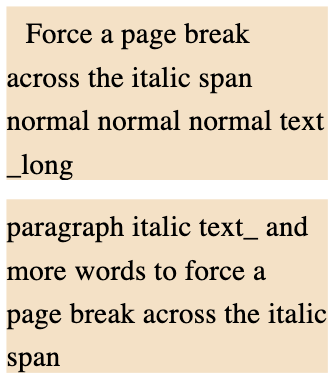
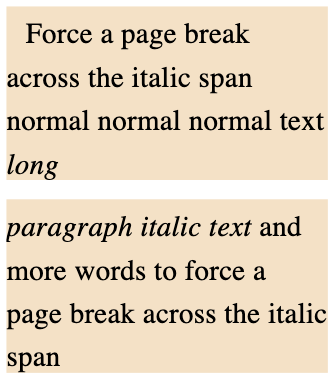
Implement markdown rebalancing for emphasis spans split across pages in Reader component. Update related tests and introduce utility for detecting emphasis spans.

Changed region(s): [[0.0, 0.55, 0.9309, 0.6368], [0.0, 0.4053, 0.2102, 0.4921]]

diff --git a/webApp/src/features/Reader/utils/balanceMarkdownAcrossSplit.ts b/webApp/src/features/Reader/utils/balanceMarkdownAcrossSplit.ts
@@ -1,0 +1,116 @@
+/**
+ * When `splitIntoPages` slices a single source paragraph into multiple page
+ * chunks, a markdown emphasis span (e.g. `_word word_` or `**word**`) can be
+ * cut in half — the opener ends up on page N and its matching closer on page
+ * N+1. Each chunk is then handed to `markdown-to-jsx` in isolation, where
+ * the unmatched delimiter is rendered as a literal `_` / `*` instead of
+ * applying italic/bold formatting.
+ *
+ * This module detects emphasis spans that straddle a chunk boundary and
+ * returns the wrapper delimiters that must be re-injected at render time to
+ * keep markdown balanced for each chunk WITHOUT modifying the chunk's
+ * `words` array (which is the source of truth for selection char offsets).
+ *
+ * Care: a bare `_` between alphanumerics (`foo_bar`) is intraword and is
+ * NOT an emphasis delimiter in CommonMark; we mirror the same word-boundary
+ * gating that `ReaderParagraph` already uses for the
+ * `hasMarkdownEmphasis` flag so literal underscores are never miscounted.
+ */
+
+export interface EmphasisSpan {
+  marker: '_' | '__' | '*' | '**';
+  openStart: number;
+  closeEndExclusive: number;
+}
+
+export interface MarkdownChunkWrappers {
+  markdownPrefix: string;
+  markdownSuffix: string;
+}
+
+// Matches a complete, well-formed emphasis span with the same word-boundary
+// gating as the `hasMarkdownEmphasis` regex in `ReaderParagraph.tsx`:
+//   - the character before the opener must be string-start or a non-word /
+//     non-decorator character (so `foo_bar_baz` is NOT an emphasis pair)
+//   - the character after the closer must be string-end or a non-word /
+//     non-decorator character
+const EMPHASIS_SPAN_REGEX =
+  /(^|[^\p{L}\p{N}_*])((\*\*[^*\n](?:[^*\n]*[^*\n])?\*\*)|(\*[^*\n]+\*)|(__[^_\n](?:[^_\n]*[^_\n])?__)|(_[^_\n]+_))(?=$|[^\p{L}\p{N}_*])/gu;
+
+const detectMarker = (matchedSpan: string): EmphasisSpan['marker'] => {
+  if (matchedSpan.startsWith('**')) return '**';
+  if (matchedSpan.startsWith('__')) return '__';
+  if (matchedSpan.startsWith('*')) return '*';
+  return '_';
+};
+
+export const findEmphasisSpans = (text: string): EmphasisSpan[] => {
+  const spans: EmphasisSpan[] = [];
+  EMPHASIS_SPAN_REGEX.lastIndex = 0;
+  let match: RegExpExecArray | null;
+
+  while ((match = EMPHASIS_SPAN_REGEX.exec(text)) !== null) {
+    const leadingContextLength = match[1].length;
+    const spanText = match[2];
+    const openStart = match.index + leadingContextLength;
+    const closeEndExclusive = openStart + spanText.length;
+    spans.push({
+      marker: detectMarker(spanText),
+      openStart,
+      closeEndExclusive,
+    });
+    // Resume scanning AFTER the matched span (the regex consumed the trailing
+    // context via look-ahead so `lastIndex` is already at `closeEndExclusive`,
+    // but we set it explicitly to make the contract clear).
+    EMPHASIS_SPAN_REGEX.lastIndex = closeEndExclusive;
+  }
+
+  return spans;
+};
+
+/**
+ * Compute the delimiters that must be PREPENDED / APPENDED to the rendered
+ * markdown for a chunk that covers `[chunkStart, chunkEndExclusive)` of the
+ * original paragraph text.
+ *
+ * - If an emphasis span opens BEFORE the chunk and closes INSIDE it, prepend
+ *   the opener so `markdown-to-jsx` sees a complete pair.
+ * - If an emphasis span opens INSIDE the chunk and closes AFTER it, append
+ *   the closer so `markdown-to-jsx` sees a complete pair.
+ *
+ * The returned wrappers are concatenated in span order so nested / multiple
+ * crossings are handled deterministically.
+ */
+export const getMarkdownWrappersForChunk = ({
+  originalParagraphText,
+  chunkStart,
+  chunkEndExclusive,
+}: {
+  originalParagraphText: string;
+  chunkStart: number;
+  chunkEndExclusive: number;
+}): MarkdownChunkWrappers => {
+  if (chunkStart === 0 && chunkEndExclusive >= originalParagraphText.length) {
+    return { markdownPrefix: '', markdownSuffix: '' };
+  }
+
+  const spans = findEmphasisSpans(originalParagraphText);
+  let markdownPrefix = '';
+  let markdownSuffix = '';
+
+  for (const span of spans) {
+    const opensBeforeChunk = span.openStart < chunkStart;
+    const opensInsideChunk = span.openStart >= chunkStart && span.openStart < chunkEndExclusive;
+    const closesAfterChunk = span.closeEndExclusive > chunkEndExclusive;
+    const closesInsideChunk =
+      span.closeEndExclusive > chunkStart && span.closeEndExclusive <= chunkEndExclusive;
+
+    if (opensBeforeChunk && closesInsideChunk) {
+      markdownPrefix += span.marker;
+    } else if (opensInsideChunk && closesAfterChunk) {
+      markdownSuffix += span.marker;
+    }
+  }
+
+  return { markdownPrefix, markdownSuffix };
+};

diff --git a/webApp/src/features/Reader/utils/splitParagraphsIntoPages.tsx b/webApp/src/features/Reader/utils/splitParagraphsIntoPages.tsx
@@ -1,12 +1,21 @@
 import { getHash } from '@/libs/hash';
 import { splitWords } from '../../Sentence/TextConstructor/textConstructor.utils';
 import { BookParagraph, ReaderSettings } from '../model/types';
+import { getMarkdownWrappersForChunk } from './balanceMarkdownAcrossSplit';
 import { isFitInPage, MeasuredParagraph } from './isFitInPage';
 
 export interface PagedParagraph {
   words: BookParagraph;
   sourceParagraphIndex: number;
   sourceStartCharOffset: number;
+  /**
+   * Markdown delimiter(s) injected at render time to re-balance an emphasis
+   * span that was split across a page boundary. Empty when no rebalancing is
+   * needed. NEVER include these characters in `words` — they exist only for
+   * markdown-to-jsx and must not shift selection char offsets.
+   */
+  markdownPrefix?: string;
+  markdownSuffix?: string;
 }
 
 export interface SplitIntoPagesData {
@@ -106,7 +115,39 @@ export const splitIntoPages = ({
 
   const markdownImagePattern = /!\[.*?\]\(.*?\)/;
 
+  const pushChunkWithRebalancedMarkdown = ({
+    fittedWords,
+    sourceParagraphIndex,
+    chunkStartCharOffset,
+    originalParagraphText,
+  }: {
+    fittedWords: string[];
+    sourceParagraphIndex: number;
+    chunkStartCharOffset: number;
+    originalParagraphText: string;
+  }) => {
+    const fittedParagraphText = fittedWords.join(' ');
+    const { markdownPrefix, markdownSuffix } = getMarkdownWrappersForChunk({
+      originalParagraphText,
+      chunkStart: chunkStartCharOffset,
+      chunkEndExclusive: chunkStartCharOffset + fittedParagraphText.length,
+    });
+
+    currentPage.push({
+      words: fittedWords,
+      sourceParagraphIndex,
+      sourceStartCharOffset: chunkStartCharOffset,
+      ...(markdownPrefix ? { markdownPrefix } : {}),
+      ...(markdownSuffix ? { markdownSuffix } : {}),
+    });
+    currentPageText.push({
+      text: fittedParagraphText,
+      sourceStartCharOffset: chunkStartCharOffset,
+    });
+  };
+
   bookParagraphs.forEach((paragraph, sourceParagraphIndex) => {
+    const originalParagraphText = paragraph.join(' ');
     if (sourceParagraphIndex > 0 && chapterStartParagraphSet.has(sourceParagraphIndex)) {
       pushCurrentPage();
     }
@@ -126,14 +167,11 @@ export const splitIntoPages = ({
       ]);
 
       if (fitsAsWhole) {
-        currentPage.push({
-          words: remainingWords,
+        pushChunkWithRebalancedMarkdown({
+          fittedWords: remainingWords,
           sourceParagraphIndex,
-          sourceStartCharOffset: remainingStartCharOffset,
-        });
-        currentPageText.push({
-          text: fullParagraphText,
-          sourceStartCharOffset: remainingStartCharOffset,
+          chunkStartCharOffset: remainingStartCharOffset,
+          originalParagraphText,
         });
         break;
       }
@@ -167,14 +205,11 @@ export const splitIntoPages = ({
         const fittedWords = remainingWords.slice(0, fittingPrefixLength);
         const fittedParagraphText = fittedWords.join(' ');
 
-        currentPage.push({
-          words: fittedWords,
+        pushChunkWithRebalancedMarkdown({
+          fittedWords,
           sourceParagraphIndex,
-          sourceStartCharOffset: remainingStartCharOffset,
-        });
-        currentPageText.push({
-          text: fittedParagraphText,
-          sourceStartCharOffset: remainingStartCharOffset,
+          chunkStartCharOffset: remainingStartCharOffset,
+          originalParagraphText,
         });
         pushCurrentPage();
 
@@ -195,14 +230,11 @@ export const splitIntoPages = ({
       const fittedWords = fallbackWords;
       const fittedParagraphText = fittedWords.join(' ');
 
-      currentPage.push({
-        words: fittedWords,
+      pushChunkWithRebalancedMarkdown({
+        fittedWords,
         sourceParagraphIndex,
-        sourceStartCharOffset: remainingStartCharOffset,
-      });
-      currentPageText.push({
-        text: fittedParagraphText,
-        sourceStartCharOffset: remainingStartCharOffset,
+        chunkStartCharOffset: remainingStartCharOffset,
+        originalParagraphText,
       });
       pushCurrentPage();
 

diff --git a/webApp/src/features/Reader/components/Paragraph/ReaderParagraph.tsx b/webApp/src/features/Reader/components/Paragraph/ReaderParagraph.tsx
@@ -64,6 +64,15 @@ interface ReaderParagraphProps {
   onInternalChapterLinkSelect?: (targetPage: number) => void;
   resizeAnchorWordStartCharOffset?: number | null;
   isResizeAnchorHighlightVisible?: boolean;
+  /**
+   * Markdown delimiter(s) injected ONLY at the markdown render layer to
+   * re-balance an emphasis span that the paginator split across a page
+   * boundary. NEVER include these characters in `words`/`paragraphText` —
+   * the token map and selection char offsets must continue to reference the
+   * original source text.
+   */
+  markdownPrefix?: string;
+  markdownSuffix?: string;
 }
 
 const ReaderParagraphBase = ({
@@ -87,8 +96,11 @@ const ReaderParagraphBase = ({
   onInternalChapterLinkSelect,
   resizeAnchorWordStartCharOffset,
   isResizeAnchorHighlightVisible,
+  markdownPrefix,
+  markdownSuffix,
 }: ReaderParagraphProps) => {
   const paragraphText = words.join(' ');
+  const markdownSourceText = `${markdownPrefix ?? ''}${paragraphText}${markdownSuffix ?? ''}`;
   // Render counter exposed to e2e via `data-reader-paragraph-render-count` so
   // tests can assert that toggling non-layout settings (language, voice,
   // translate target, translate-on-hover, voice-over-selected-text) does not
@@ -105,7 +117,9 @@ const ReaderParagraphBase = ({
     );
   const hasInlineMarkdownFormatting = hasMarkdownLinkOrImage || hasMarkdownEmphasis;
   const hasBlockMarkdown = hasBlockMarkdownFormatting(paragraphText);
-  const shouldRenderMarkdown = hasInlineMarkdownFormatting || hasBlockMarkdown;
+  const hasCrossPageEmphasisWrappers = Boolean(markdownPrefix) || Boolean(markdownSuffix);
+  const shouldRenderMarkdown =
+    hasInlineMarkdownFormatting || hasBlockMarkdown || hasCrossPageEmphasisWrappers;
   const paragraphTextIndent = getReaderParagraphTextIndent({
     paragraphText,
     isParagraphStart,
@@ -541,7 +555,7 @@ const ReaderParagraphBase = ({
           }}
           renderSpace={renderSpace}
         >
-          {paragraphText}
+          {markdownSourceText}
         </ReaderMarkdown>
       </Typography>
     </>

diff --git a/webApp/src/features/Reader/components/Reader.tsx b/webApp/src/features/Reader/components/Reader.tsx
@@ -483,6 +483,8 @@ export const Reader = ({ data }: { data: Book }) => {
                       paragraphIndex={index}
                       paragraphStartCharOffset={paragraph.sourceStartCharOffset}
                       words={paragraph.words}
+                      markdownPrefix={paragraph.markdownPrefix}
+                      markdownSuffix={paragraph.markdownSuffix}
                       imagesByHref={data.imagesByHref}
                       imageAspectRatioByHref={data.imageAspectRatioByHref}
                       maxImageHeight={Math.max(0, Math.floor(readerSettings.contentHeight * 0.9))}

diff --git a/webApp/src/features/Reader/components/DevPanel.tsx b/webApp/src/features/Reader/components/DevPanel.tsx
@@ -303,6 +303,8 @@ const SplitTab = () => {
                   paragraphIndex={paragraph.sourceParagraphIndex}
                   paragraphStartCharOffset={paragraph.sourceStartCharOffset}
                   words={paragraph.words}
+                  markdownPrefix={paragraph.markdownPrefix}
+                  markdownSuffix={paragraph.markdownSuffix}
                   fontSize={readerSettings.fontSize}
                   lineHeight={readerSettings.lineHeight}
                   justifyText={readerSettings.justifyText}
